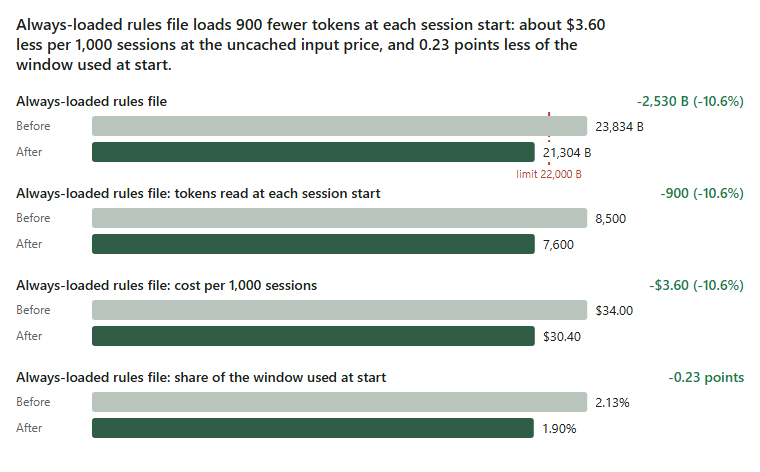
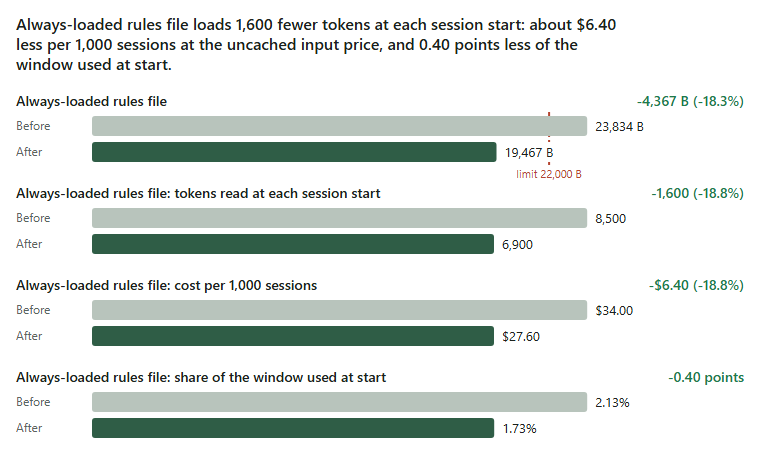
docs: start-load measure and chart on the final rules text

diff --git a/docs/evals/results/b21-start-load.md b/docs/evals/results/b21-start-load.md
@@ -1,14 +1,14 @@
 # Build 21: what loads at the start of a session (2026-11-20)
 
 Method: two fresh probe folders, each holding only the project CLAUDE.md and AGENTS.md of one side (main at ec73f1d,
-released 1.46.1; this branch at e7a71ce), the owner's own user layer, one `claude -p /context` session on the top
+released 1.46.1; this branch at bf6c9a0), the owner's own user layer, one `claude -p /context` session on the top
 model. The report needs no model call. Token counts are Claude Code's own estimates.
 
-| Piece | 1.46.1 (ec73f1d) | 1.47.0 (e7a71ce) | Change |
+| Piece | 1.46.1 (ec73f1d) | 1.47.0 (bf6c9a0) | Change |
 |---|---|---|---|
-| AGENTS.md, bytes on disk | 23,834 | 21,304 | -2,530 (-10.6%) |
-| AGENTS.md, tokens | 8.5k | 7.6k | -0.9k (-11%) |
+| AGENTS.md, bytes on disk | 23,834 | 19,467 | -4,367 (-18.3%) |
+| AGENTS.md, tokens | 8.5k | 6.9k | -1.6k (-19%) |
 | Project CLAUDE.md, tokens | 2.2k | 2.2k | 0 |
-| Memory files, all | 13.1k | 12.3k | -0.8k |
+| Memory files, all | 13.1k | 11.6k | -1.5k |
 
 Not measured: the MCP tool lines, which differed between the two sessions by what servers had connected, not by the kit.
